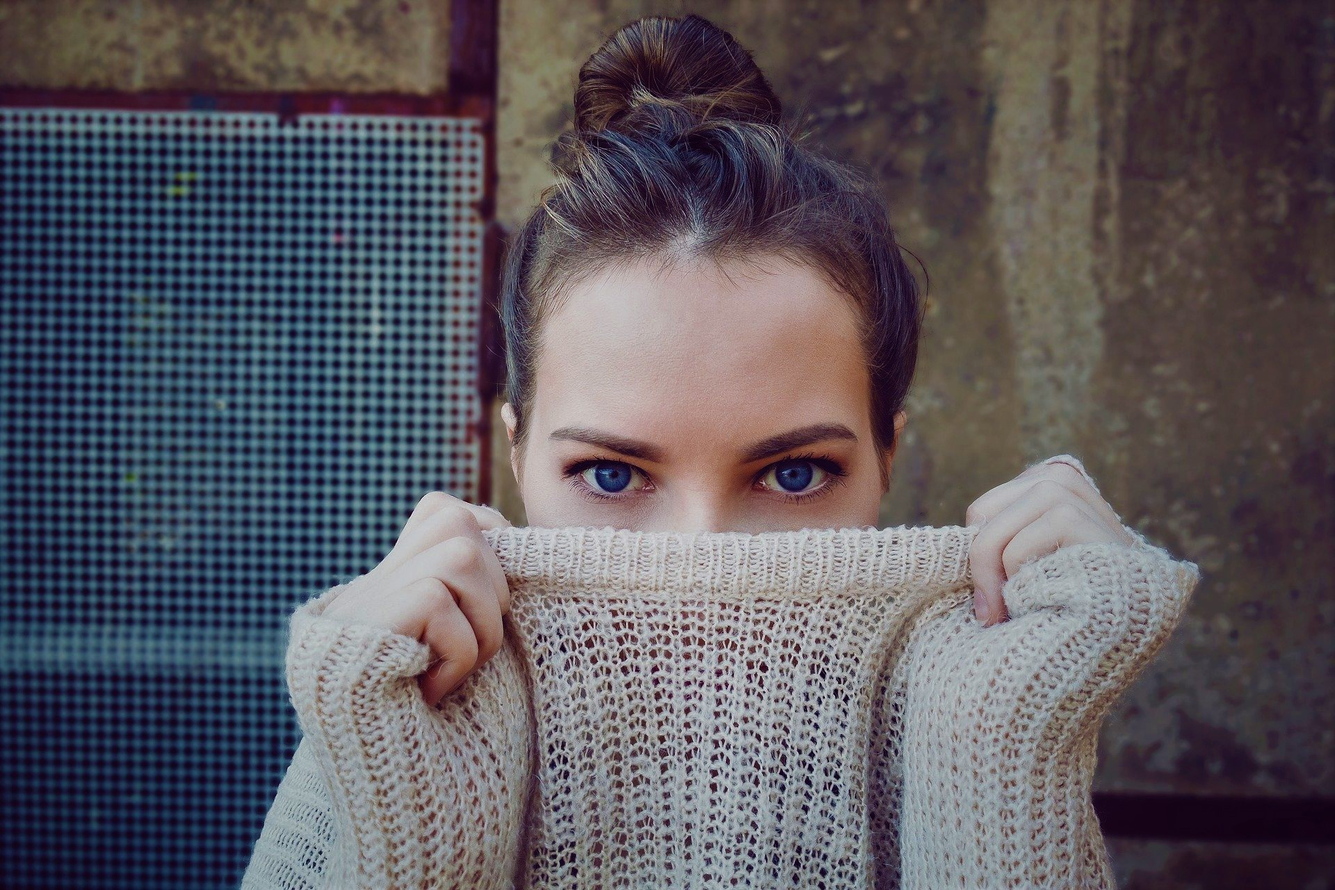
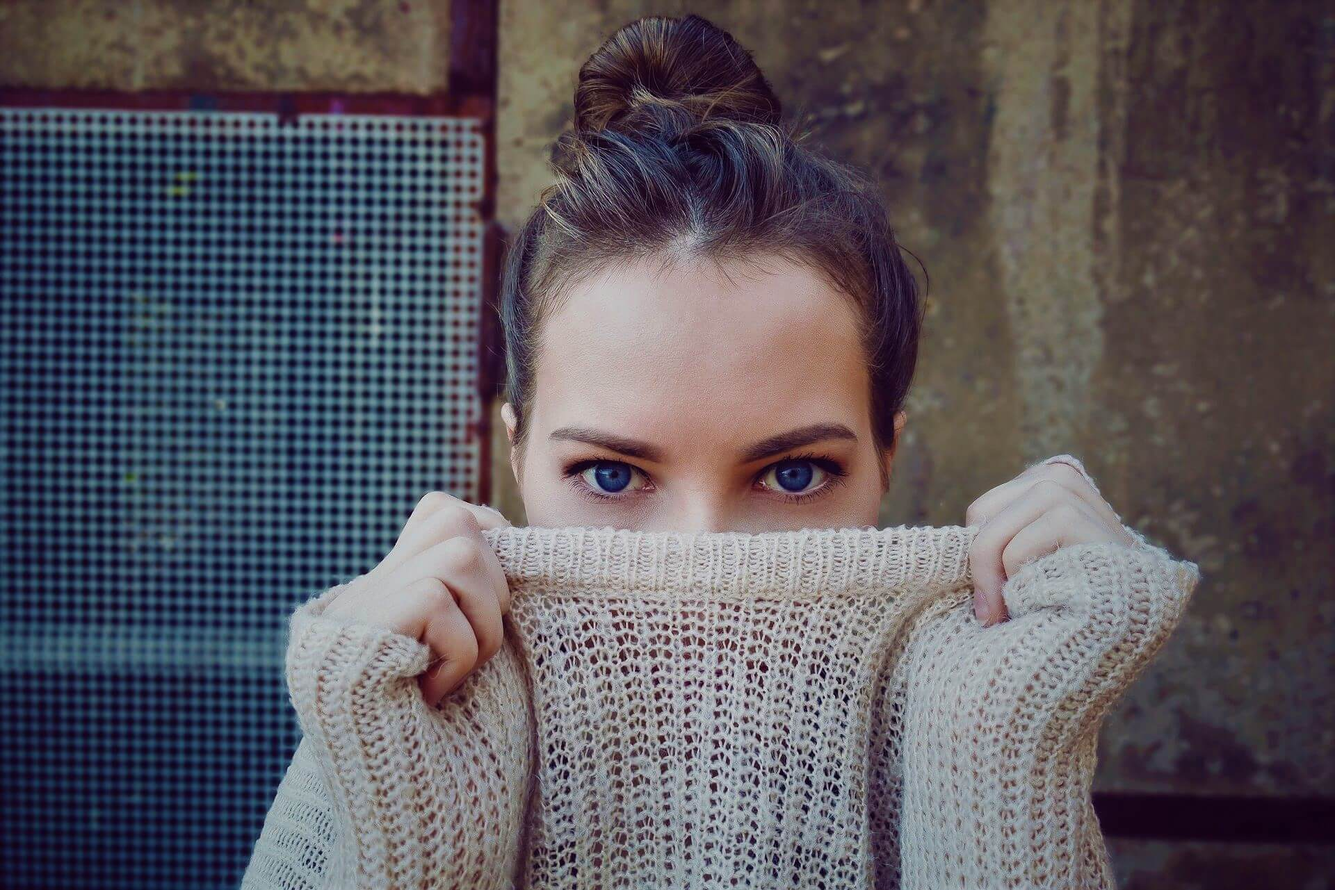
style: re-added home pg img as compressed img

diff --git a/static/css/base.css b/static/css/base.css
@@ -79,8 +79,8 @@ a {
 }
 
 .mobile-menu {
-    margin: 8px 0 8px 0;
-
+    margin: 8px 10px 8px 0;
+    
 }
 
 /*--------------------FOOTER STYLING------*/
@@ -798,10 +798,6 @@ a.category-badge>span.badge:hover {
     .shop-now-button {
         top: 325px;
         
-    }
-
-    .mobile-logo {
-        font-size: 3px;
     }
 
     .faq-question {

diff --git a/templates/includes/mobile-top-header.html b/templates/includes/mobile-top-header.html
@@ -1,7 +1,3 @@
-  
-<a href="{% url 'home' %}" class="nav-link main-logo-link float-left d-block d-md-none">
-    <h4 class="mobile-logo logo-font"> sF</h4>
-</a>
 <a href="{% url 'home' %}" class="nav-link main-logo-link float-left d-none d-md-block d-lg-none">
     <h2 class="logo-font home-btn zoom my-0">siopa<strong>FIA</strong> </h2>
 </a>
